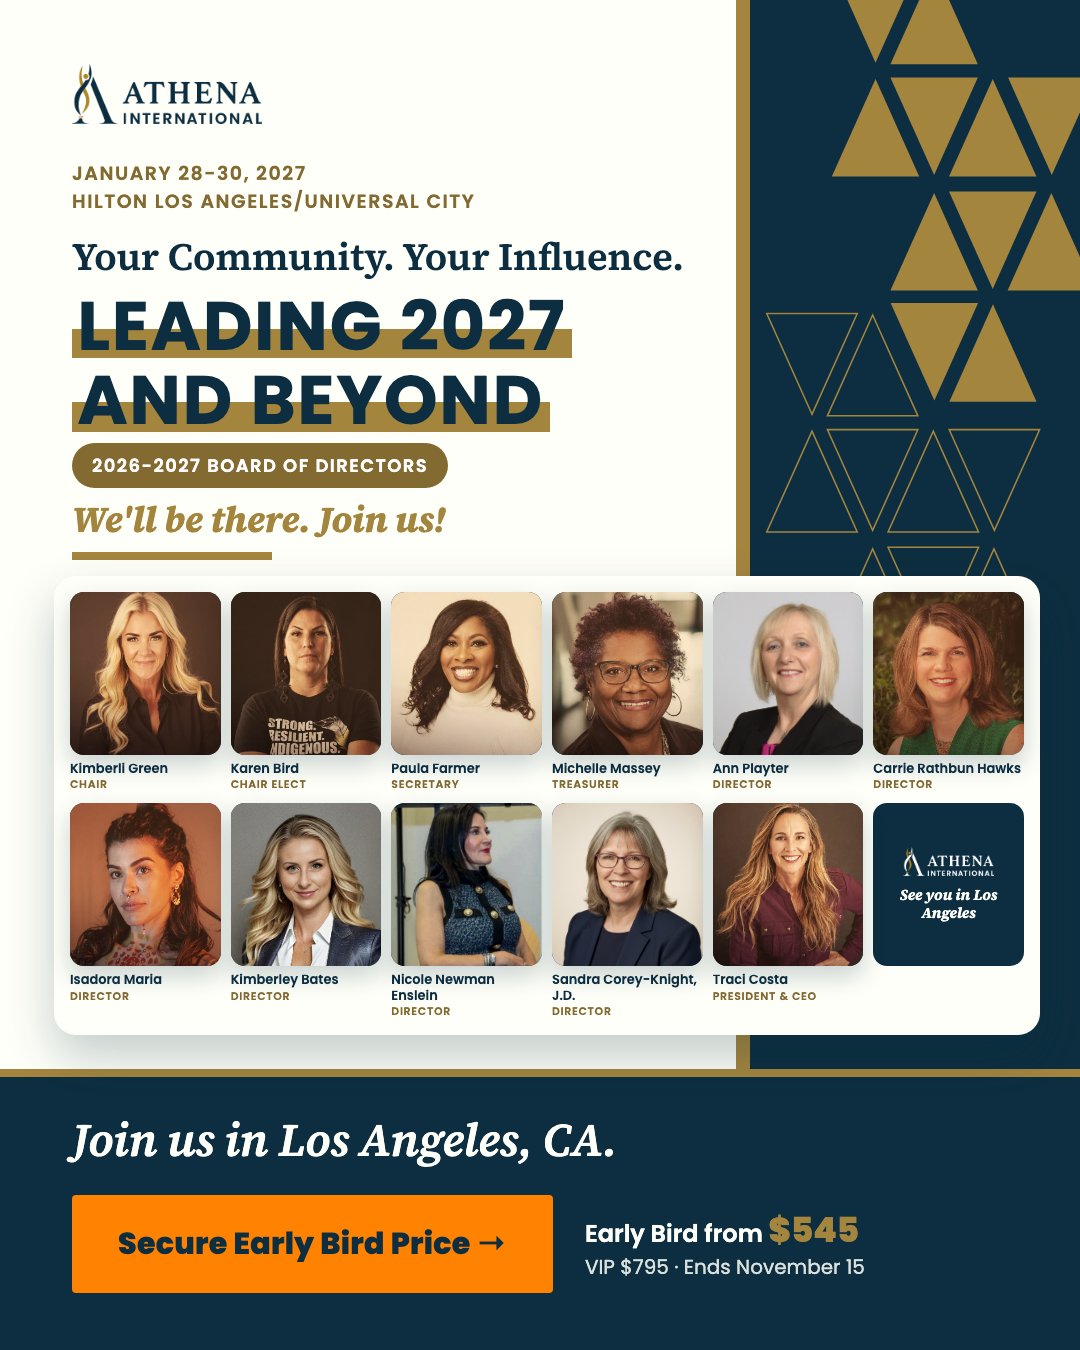
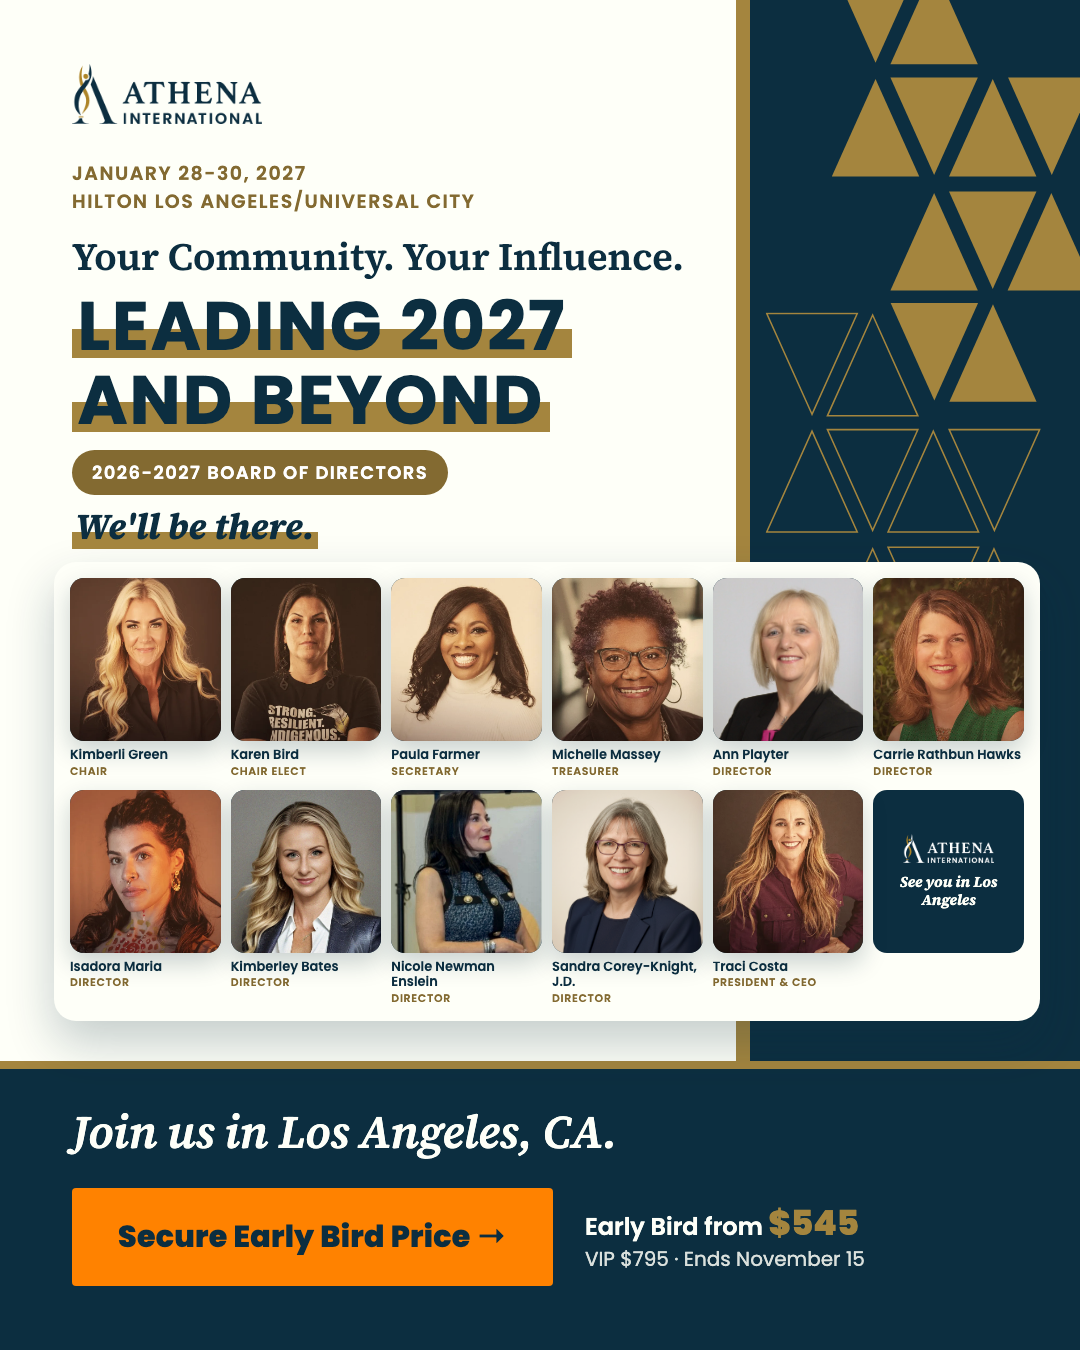
kit de speakers atualizado

Changed region(s): [[0.0, 0.3111, 1.0, 0.9644], [0.55, 0.8711, 0.7944, 0.9644]]

diff --git a/index.html b/index.html
@@ -1658,7 +1658,7 @@ Early Bird pricing from $545 ends November 15.
 https://conference.athenainternational.org/?utm_source=linkedin&amp;utm_medium=post&amp;utm_campaign=social_2027&amp;utm_content=painel-turbulence
 
 #ATHENA2027 #WomenInLeadership #WomenInAviation</pre><button type="button" class="copy" data-for="s-painel-turbulence-li">Copy text</button></div></article></div></section><section class="spk" id="board-of-directors"><header class="spkhead"><div><p class="role">ATHENA accounts</p><h3>2026-2027 Board of Directors</h3></div>
-<div class="tags"><a href="social/board-of-directors/captions.txt?v=f7b35ae7" target="_blank" rel="noopener">captions.txt</a></div></header><div class="chs"><article class="ch"><a class="shot" href="social/board-of-directors/board-of-directors_ig-post_1080x1350.png?v=14a229f4" target="_blank" rel="noopener"><img src="social/board-of-directors/board-of-directors_ig-post_1080x1350.png?v=14a229f4" alt="2026-2027 Board of Directors, Instagram Post" loading="lazy" width="1080" height="1350"></a>
+<div class="tags"><a href="social/board-of-directors/captions.txt?v=f7b35ae7" target="_blank" rel="noopener">captions.txt</a></div></header><div class="chs"><article class="ch"><a class="shot" href="social/board-of-directors/board-of-directors_ig-post_1080x1350.png?v=7b25bf3d" target="_blank" rel="noopener"><img src="social/board-of-directors/board-of-directors_ig-post_1080x1350.png?v=7b25bf3d" alt="2026-2027 Board of Directors, Instagram Post" loading="lazy" width="1080" height="1350"></a>
 <div class="chbody"><h4>Instagram Post<span>1080 × 1350</span></h4>
 <pre id="s-board-of-directors-ig">We&#x27;ll be there. Join us!
 
@@ -1670,10 +1670,10 @@ Early Bird pricing from $545 ends November 15.
 Tickets: conference.athenainternational.org
 
 #ATHENA2027 #WomenInLeadership #LeadershipDevelopment #WomenLeaders #LosAngeles</pre><button type="button" class="copy" data-for="s-board-of-directors-ig">Copy text</button></div></article>
-<article class="ch"><a class="shot" href="social/board-of-directors/board-of-directors_ig-story_1080x1920.png?v=c6bc6180" target="_blank" rel="noopener"><img src="social/board-of-directors/board-of-directors_ig-story_1080x1920.png?v=c6bc6180" alt="2026-2027 Board of Directors, Instagram Story" loading="lazy" width="1080" height="1920"></a>
+<article class="ch"><a class="shot" href="social/board-of-directors/board-of-directors_ig-story_1080x1920.png?v=9c8bce3c" target="_blank" rel="noopener"><img src="social/board-of-directors/board-of-directors_ig-story_1080x1920.png?v=9c8bce3c" alt="2026-2027 Board of Directors, Instagram Story" loading="lazy" width="1080" height="1920"></a>
 <div class="chbody"><h4>Instagram Story<span>1080 × 1920</span></h4><p class="meta">Link sticker “Get your pass”<br><span class="url">https://conference.athenainternational.org/?utm_source=instagram&amp;utm_medium=story&amp;utm_campaign=social_2027&amp;utm_content=board-of-directors</span>Mention sticker @athena_international</p>
 <pre id="s-board-of-directors-st">See you in LA</pre><button type="button" class="copy" data-for="s-board-of-directors-st">Copy text</button></div></article>
-<article class="ch"><a class="shot" href="social/board-of-directors/board-of-directors_linkedin_1200x1500.png?v=4ad6b71b" target="_blank" rel="noopener"><img src="social/board-of-directors/board-of-directors_linkedin_1200x1500.png?v=4ad6b71b" alt="2026-2027 Board of Directors, LinkedIn Post" loading="lazy" width="1080" height="1350"></a>
+<article class="ch"><a class="shot" href="social/board-of-directors/board-of-directors_linkedin_1200x1500.png?v=21c73c36" target="_blank" rel="noopener"><img src="social/board-of-directors/board-of-directors_linkedin_1200x1500.png?v=21c73c36" alt="2026-2027 Board of Directors, LinkedIn Post" loading="lazy" width="1080" height="1350"></a>
 <div class="chbody"><h4>LinkedIn Post<span>1200 × 1500</span></h4>
 <pre id="s-board-of-directors-li">We&#x27;ll be there. Join us!
 
